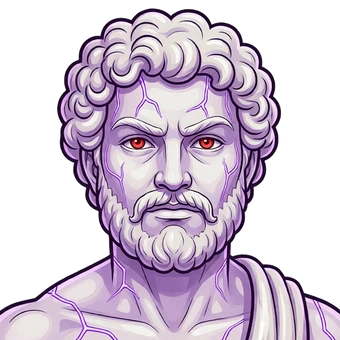
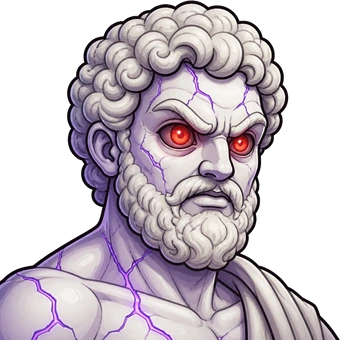
Retrats de l'Home del Raim de tres quarts
Claude-Session: https://claude.ai/code/session_01XG6id4poXzftjgXfUtQcNA

diff --git a/index.html b/index.html
@@ -32,7 +32,7 @@
     <!-- Tipografies al nostre servidor (eines/baixa_tipografies.py): el joc no demana res a Google -->
     <link rel="stylesheet" href="assets/fonts/fonts.css">
     <!-- Phaser va amb el joc (així no depèn de cap servidor extern); si el fitxer local fallés, es prova el CDN -->
-    <script src="js/lib/phaser.min.js?v=2611147100.80.1"></script>
+    <script src="js/lib/phaser.min.js?v=2611147200.80.1"></script>
     <script>if (typeof Phaser === 'undefined') document.write('<script src="https://cdn.jsdelivr.net/npm/phaser@3.80.1/dist/phaser.min.js"><\/script>');</script>
 </head>
 <body>

diff --git a/sw.js b/sw.js
@@ -9,7 +9,7 @@
  * No hi ha cap llista de fitxers: es guarda el que el joc va demanant mentre es juga (uns 50 MB com a molt).
  * Per esborrar el que ha guardat: puja el número de VERSIO (es buida la memòria de les versions anteriors).
  */
-const VERSIO = 'runna-179';
+const VERSIO = 'runna-180';
 
 self.addEventListener('install', () => self.skipWaiting());
 

diff --git a/docs/GUIO.md b/docs/GUIO.md
@@ -1,6 +1,8 @@
 # Runna: l'espasa del Miracle — Guió (versió lleugera, ~5 hores)
 
 Document de referència del joc. Qualsevol canvi d'història es fa primer aquí.
+*Revisió 539: Els retrats de l'Home del Raïm passen a tres quarts, com els dels altres personatges: enfadat (ulls vermells i esquerdes lila, mirant l'Ineu) i, un cop vençut, tranquil mirant lluny.*
+
 *Revisió 538: Home del Raïm: cap diàleg durant el combat (el guardià ja no parla en canviar de fase ni amb poca vida). Al darrer pas del volant, l'estàtua acaba amb el cap girat cap avall, enfadada, mirant l'Ineu (nou dibuix `home_raim_mira`, fet amb AutoSprite a partir de l'estàtua); la mirada a l'horitzó queda per quan, vençut, torna al pedestal. Retrats nous: enfadat, de cara (ulls vermells, esquerdes lila), fins que és vençut, i després el rostre de pedra tranquil (`home_raim_horitzo`). Neteja de la vora blanca semitransparent dels sprites del guardià.*
 
 *Revisió 537: En girar el volant, la càmera s'acosta al cap de l'Home del Raïm (pla més proper, centrat al cap) mentre gira; en tancar el text, es torna a allunyar.*
